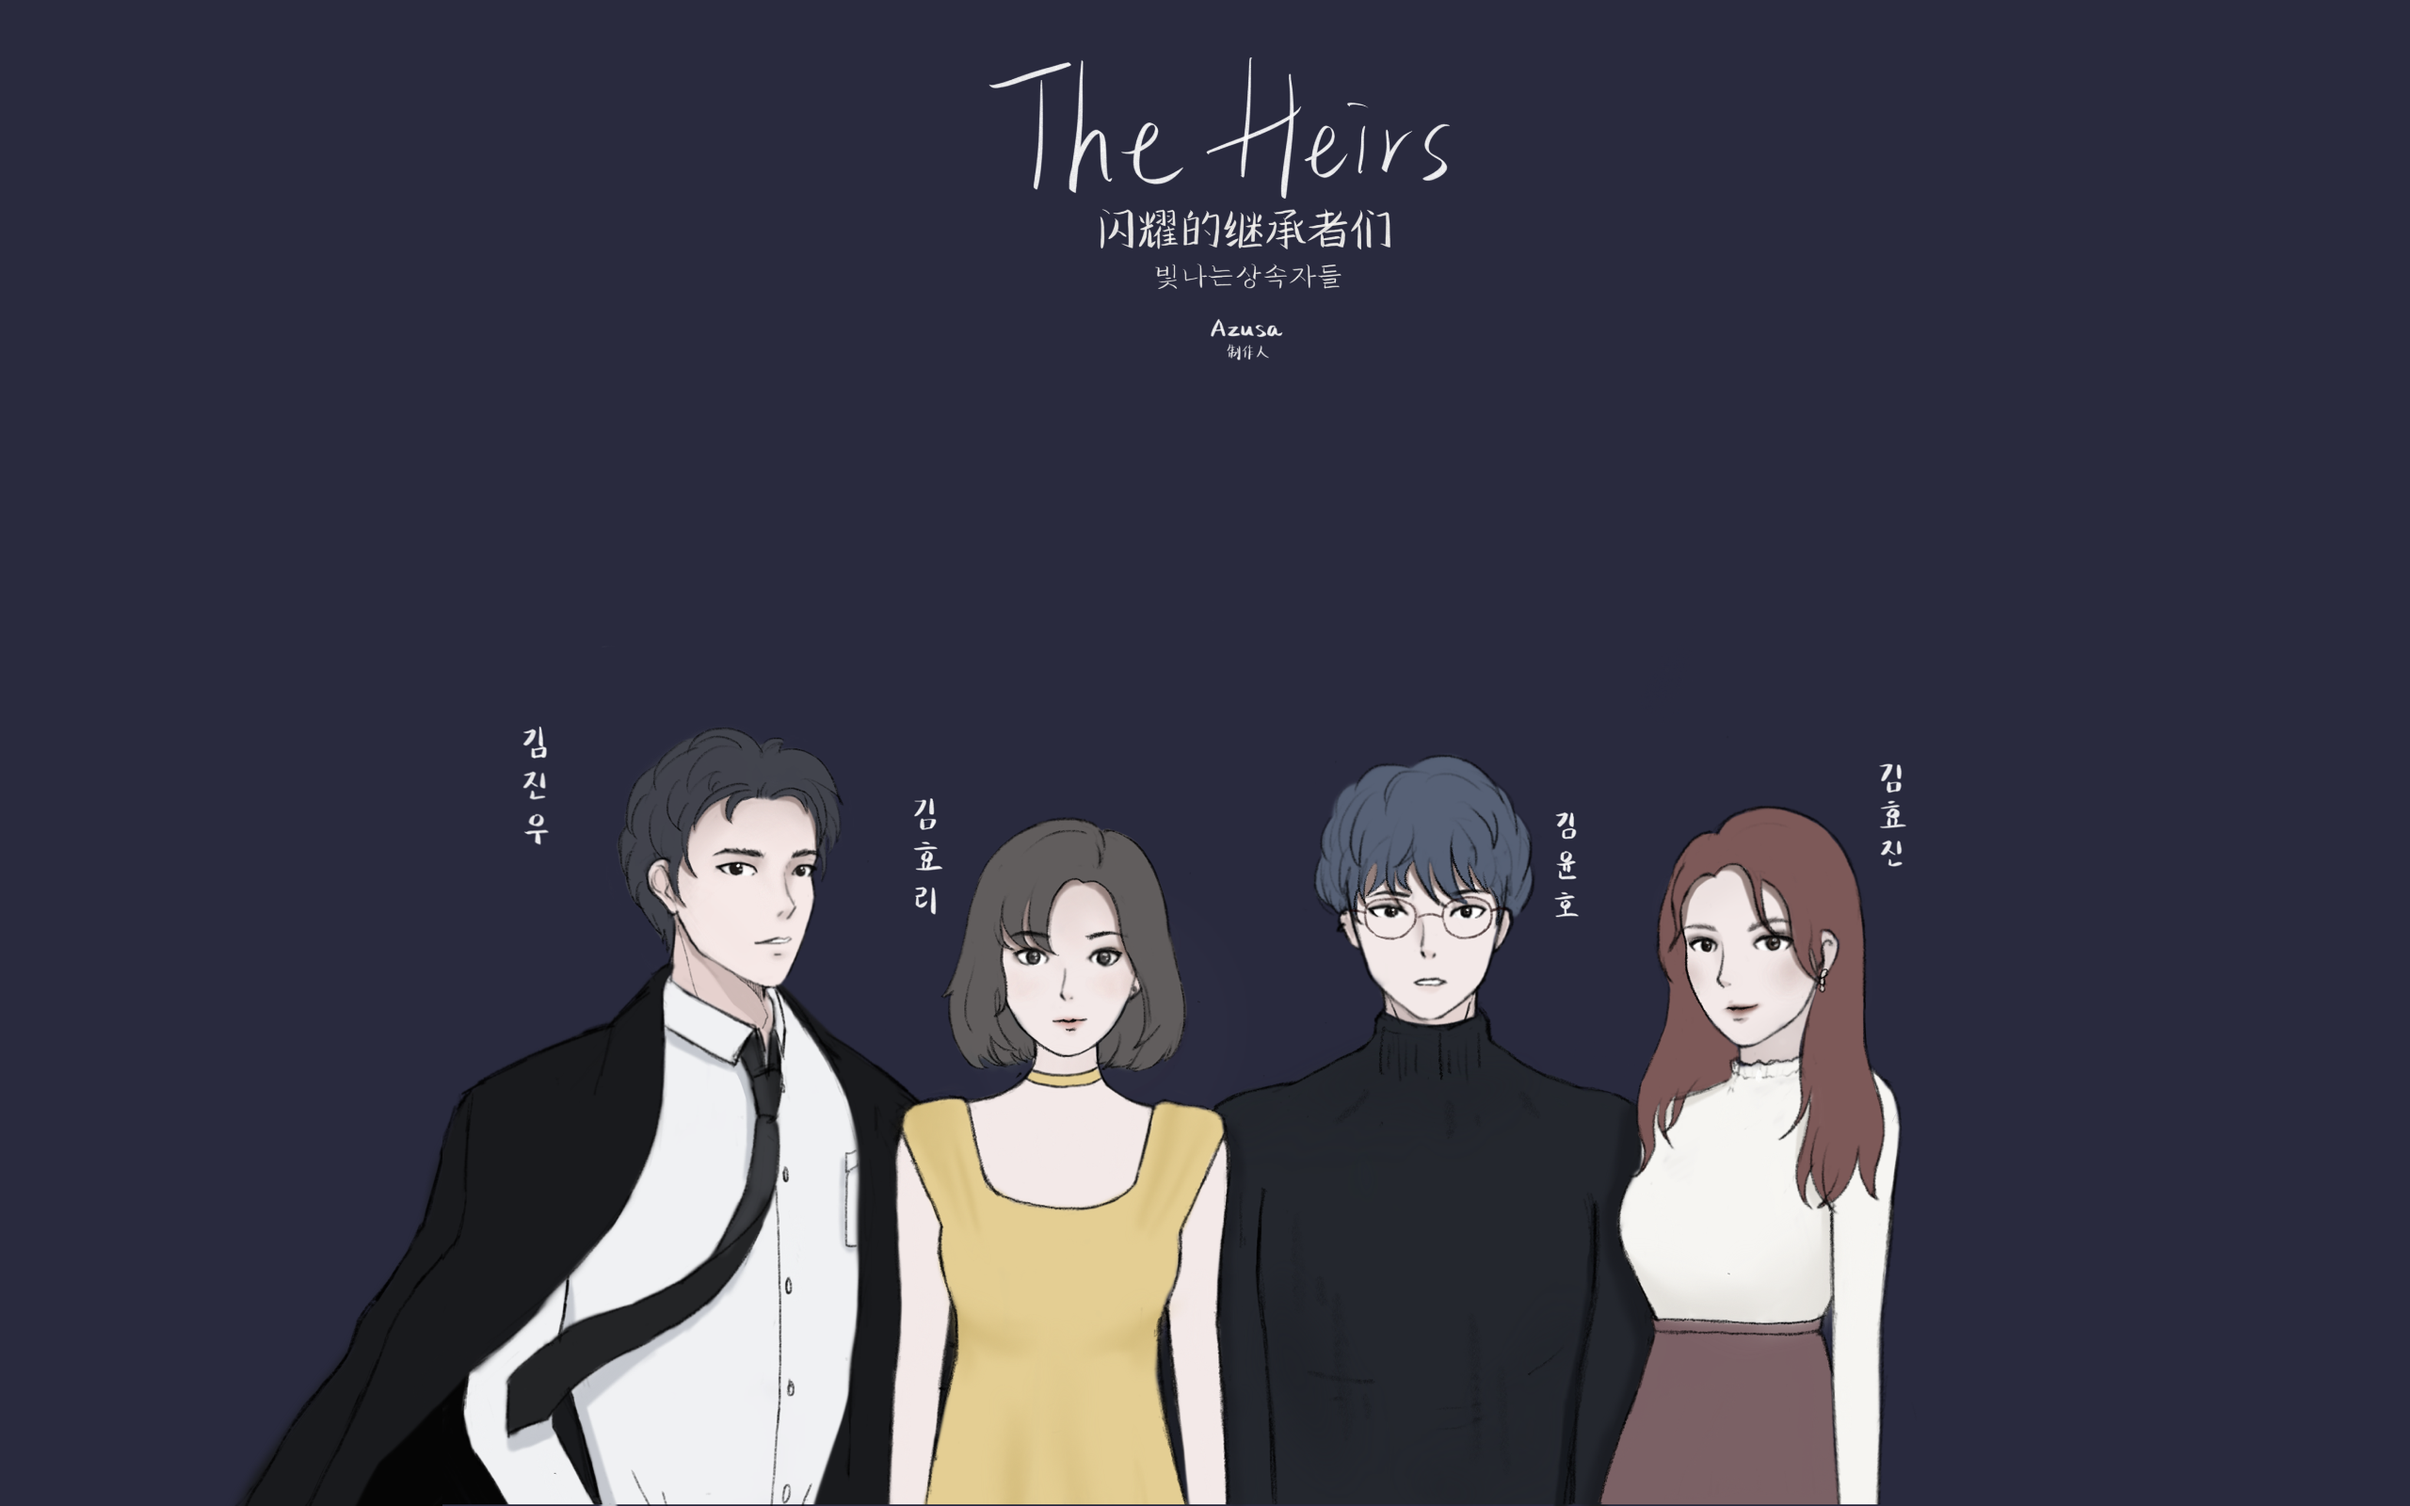
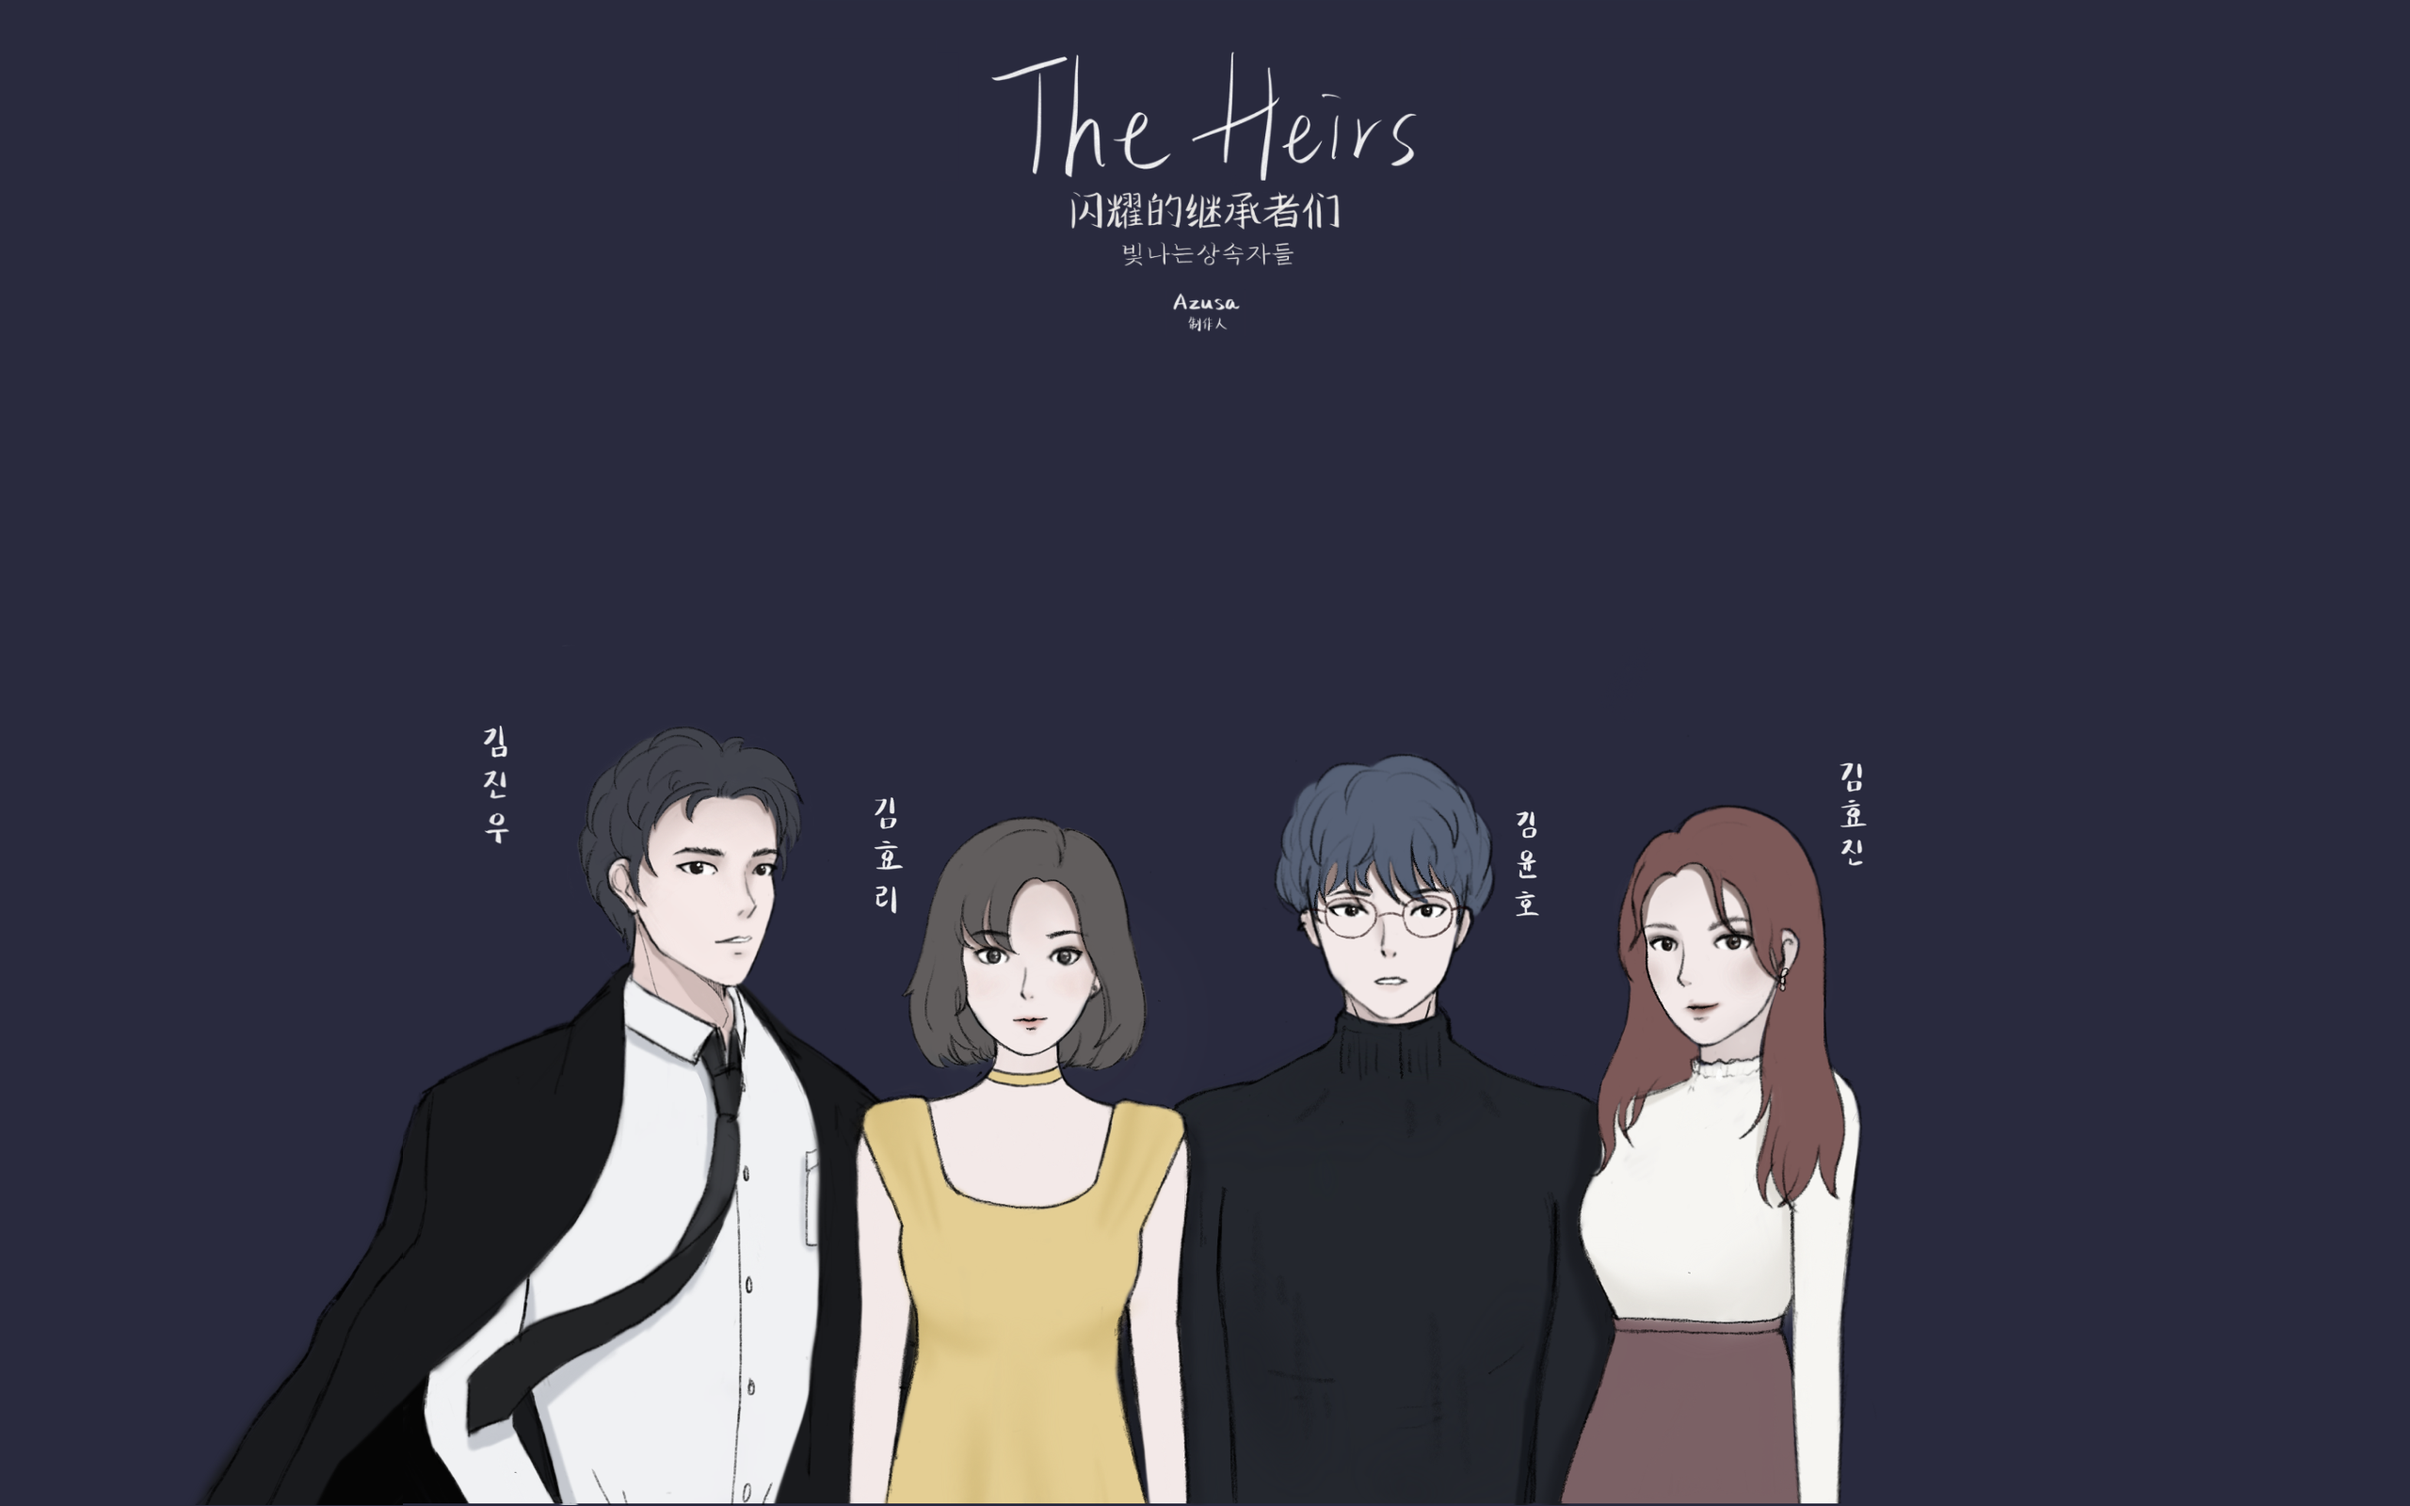
Fixed css, added game page redirect after authentication success

Changed region(s): [[0.0625, 0.4688, 0.5312, 1.0], [0.5312, 0.5, 0.8125, 1.0], [0.4062, 0.0312, 0.5938, 0.25]]

diff --git a/src/pages/Welcome.js b/src/pages/Welcome.js
@@ -1,9 +1,10 @@
 import React, {Component, useState, useContext} from 'react'
+import { useHistory} from 'react-router-dom'
 import Button from 'react-bootstrap/Button'
 import Row from 'react-bootstrap/Row'
 import Col from 'react-bootstrap/Col'
 import Form from 'react-bootstrap/Form'
-import { startGameApi } from '../api/BackendApiCalls';
+import { startGameApi } from '../api/BackendApiCalls'
 import {Link} from 'react-router-dom'
 // import FirebaseContext from "../contexts/FirebaseContext";
 import '../styles/Welcome.css'
@@ -14,7 +15,7 @@ export default function Welcome() {
     const [name, setName] = useState('');
     const [room, setRoom] = useState('');
     const [message, setMessage] = useState('');
-
+    const history = useHistory();
 
 
     function validateForm(){
@@ -33,7 +34,9 @@ export default function Welcome() {
 
     function startGameSuccess(message){
         setMessage(message);
-        // Navigate to
+        // Navigate to /game
+        history.push('/game');
+
     }
 
     function startGameFailure(message){
@@ -41,7 +44,8 @@ export default function Welcome() {
     }
 
     return (
-        <div className={'form-container'}>
+        <div className={'welcome-container'}>
+            <div className={'form-container'}>
                 <Form onSubmit={validateForm}>
                     <Form.Group controlId="playerIdentity">
                         <Form.Label>进入游戏的身份</Form.Label>
@@ -62,13 +66,15 @@ export default function Welcome() {
                 </Form>
                 <Row>
                     {/*<Link to={'/game'}>*/}
-                        <Button variant={'dark'} onClick={validateForm} >开始游戏</Button>
+                    <Button variant={'dark'} onClick={validateForm} >开始游戏</Button>
                     {/*</Link>*/}
                 </Row>
                 <Row>
                     <p id={'authErrorMessage'}>Error: {message}</p>
                 </Row>
+            </div>
         </div>
+
 
     );
 

diff --git a/src/styles/Welcome.css b/src/styles/Welcome.css
@@ -1,16 +1,5 @@
-html,body{
-    height: 100%;
-}
 
-body{
-    display: flex;
-    justify-content: center;
-    background-repeat: no-repeat;
-    background-image: url("../images/welcome-bg.png");
-    background-size: 100vw;
-    background-position-x: 0px;
-    z-index: -1;
-}
+
 
 h1{
     color: white;
@@ -21,10 +10,20 @@ div{
 
 }
 
+.welcome-container{
+    width: 100vw;
+    height: 100vh;
+    display: flex;
+    justify-content: center;
+    align-items: center;
+    background-image: url("../images/welcome-bg.png");
+    background-repeat: no-repeat;
+    background-position-x: 0px;
+    background-size: 100%;
+}
+
 .form-container{
     position: fixed;
-    top: 10px;
-    left: 10px;
     padding: 20px;
     background: rgba(0, 0, 0, 0.4);
     border-radius: 15px;

diff --git a/src/App.js b/src/App.js
@@ -1,12 +1,16 @@
 import React from 'react';
 import './App.css';
-import {BrowserRouter as Router, Switch, Route, Link} from 'react-router-dom';
+import {BrowserRouter as Router, Switch, Route, Link, useHistory} from 'react-router-dom';
 import Welcome from './pages/Welcome';
 import Game from './pages/Game';
 import './styles/Welcome.css'
 import './styles/Game.css'
 
+
+
 function App() {
+
+
     return (
         <Router>
             <Switch>

diff --git a/src/styles/Map.css b/src/styles/Map.css
@@ -1,7 +1,7 @@
 
 .grid-container{
     background: white;
-    padding: 100px 200px 300px 650px;
+    padding: 200px 200px 300px 200px;
 }
 
 .grid-row{
